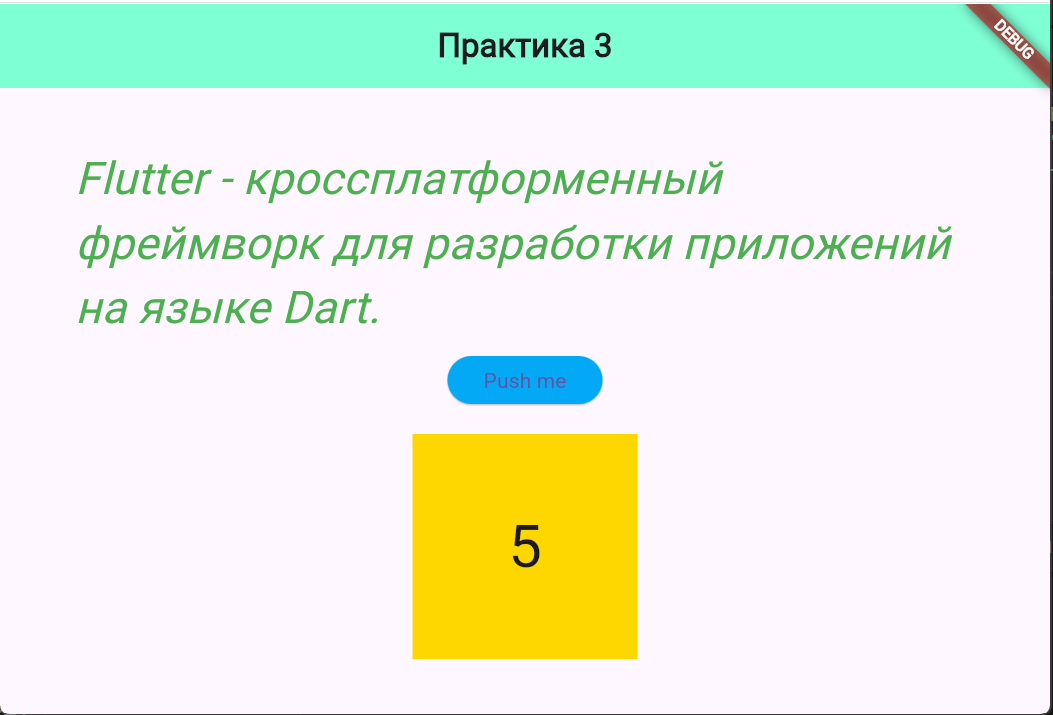
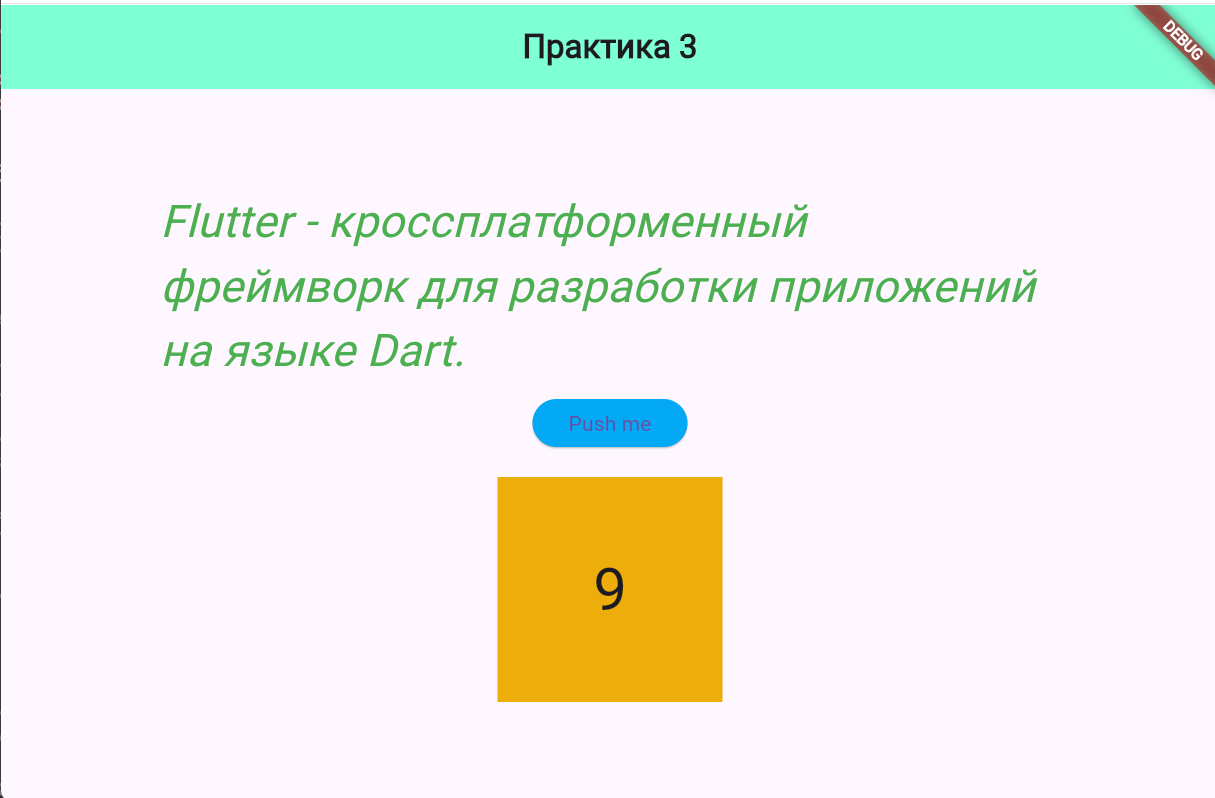
update main.dart and update screenshot_2.png

diff --git a/ui_practice_eremin/lib/main.dart b/ui_practice_eremin/lib/main.dart
@@ -74,7 +74,7 @@ class _HomePageState extends State<HomePage> {
             SizedBox(height: 20),
 
             Container(
-              color: Color(0xFFFFD700),
+              color: Color.fromARGB(255, 237, 173, 10),
               width: 150,
               height: 150,
               child: Center(
